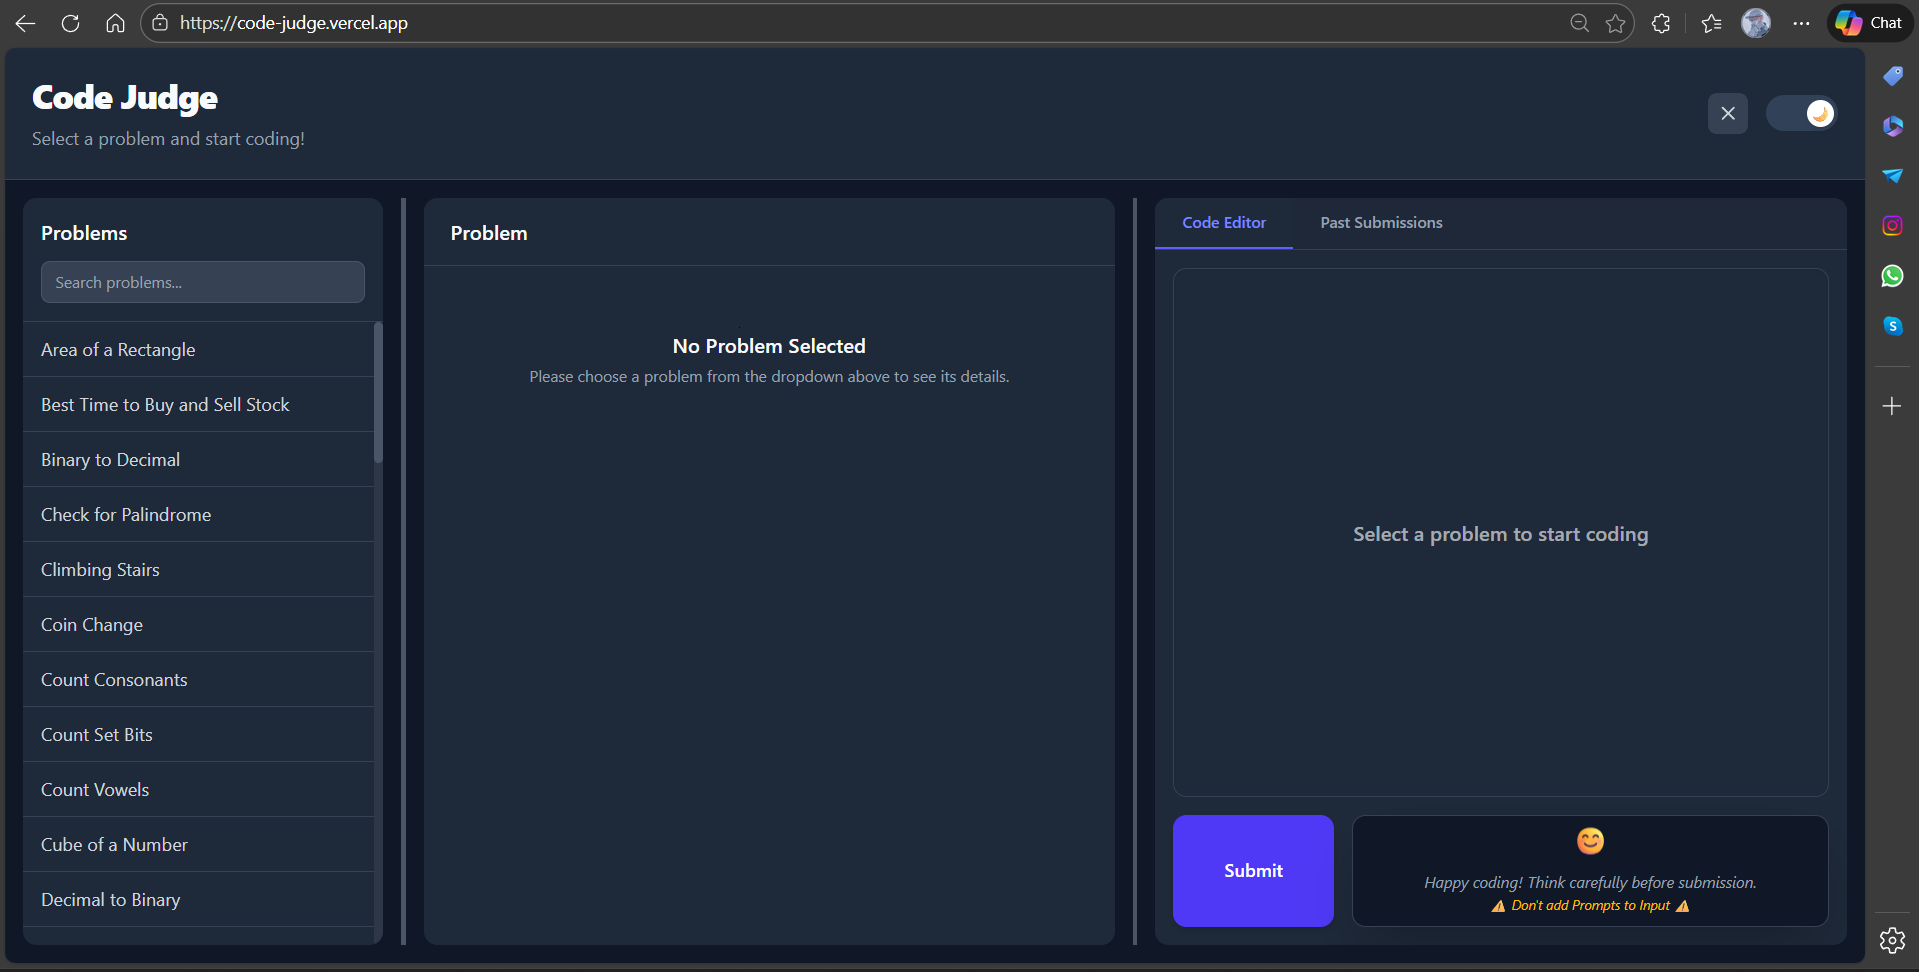
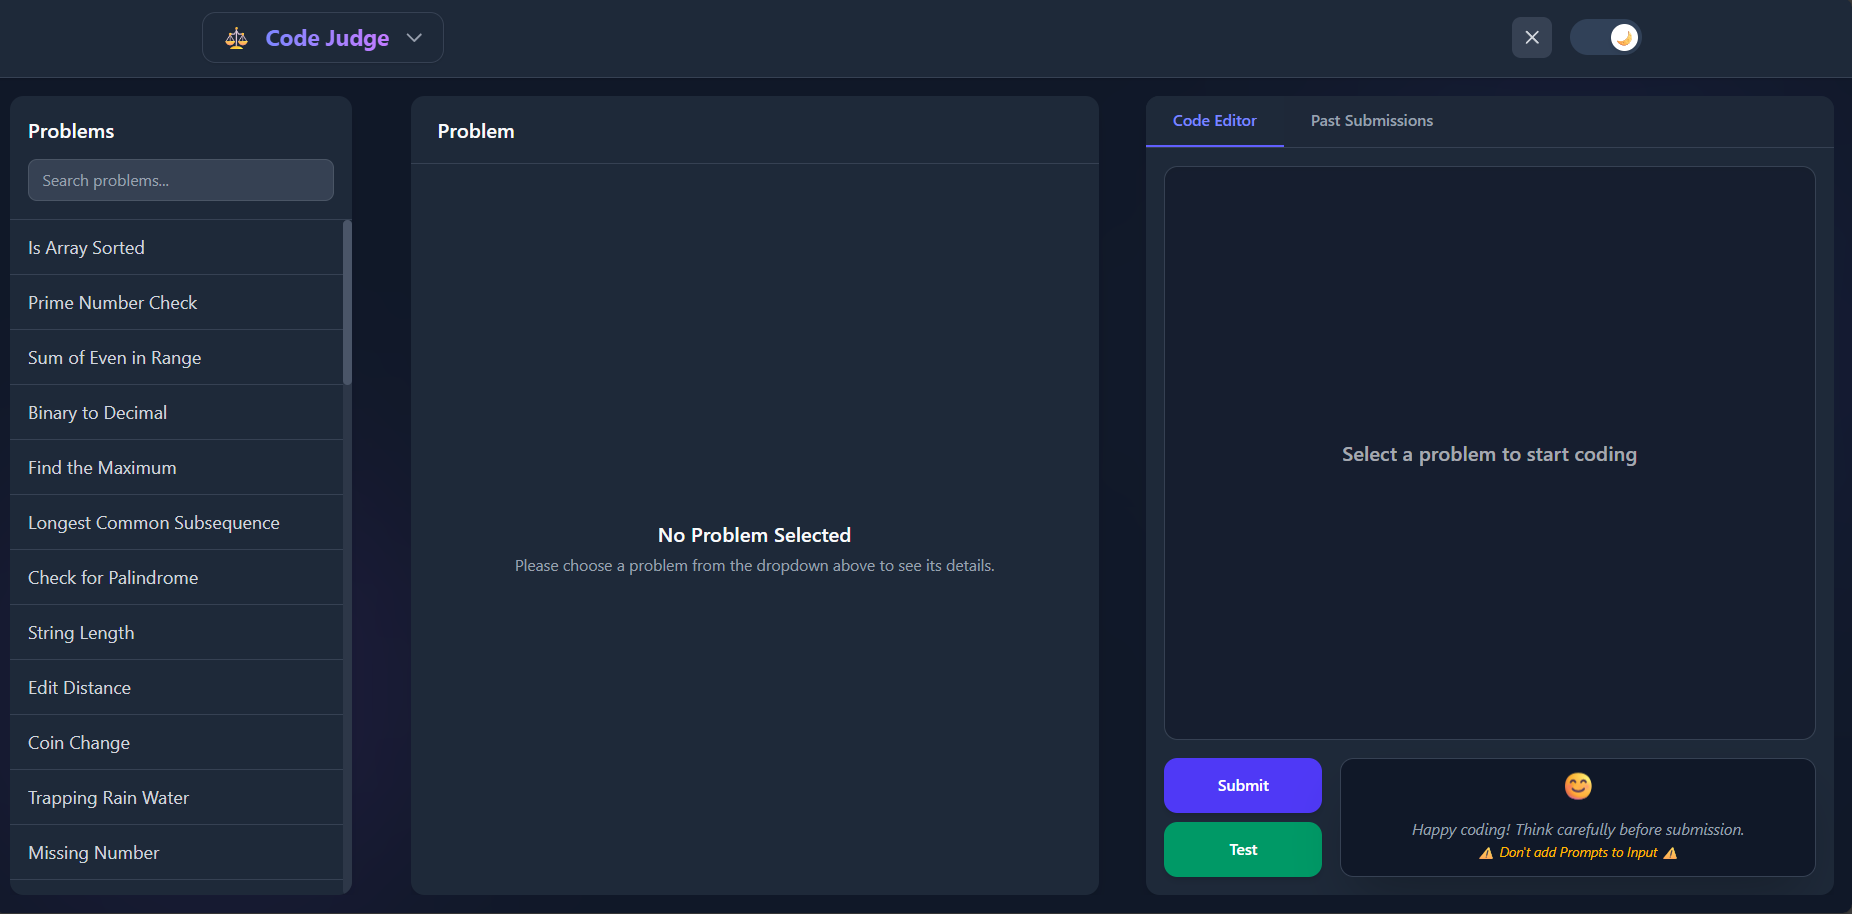
Detail changes to the portfolio

diff --git a/app/projects/code-judge/page.tsx b/app/projects/code-judge/page.tsx
@@ -10,7 +10,7 @@ export default function CodeJudgePage() {
                 <h1
                     className={`text-3xl sm:text-5xl font-extrabold ${classNames.textGlowEffect}`}
                 >
-                    Code Judge (Flask Backend)
+                    Code Judge (FastAPI Backend)
                 </h1>
                 <p className="text-lg text-gray-400 mt-4 break-all">
                     A lightweight Online Code Judge built using Flask, designed
@@ -81,7 +81,7 @@ export default function CodeJudgePage() {
                     </li>
                     <li>
                         <span className={classNames.cardparent_list_span}>
-                            ✅ Clean REST API:
+                            ✅ Clean API:
                         </span>{" "}
                         Offers a well-structured and easy-to-use API endpoint
                         for submitting code and retrieving results
@@ -186,10 +186,10 @@ export default function CodeJudgePage() {
                         </li>
                         <li>
                             <span className={classNames.cardparent_list_span}>
-                                🌶 Flask:
+                                🌶 FastAPI:
                             </span>{" "}
                             A lightweight web framework used to build the
-                            RESTful API for handling submissions.
+                            API for handling submissions.
                         </li>
                         <li>
                             <span className={classNames.cardparent_list_span}>

diff --git a/components/pagecomponent/HomeCard.tsx b/components/pagecomponent/HomeCard.tsx
@@ -43,8 +43,7 @@ export default function HomeCard() {
                                 Java:
                             </span>
                             <span className="md:w-3/4">
-                                I learnt Java programming language when I was in
-                                8th Standard
+                                Done it for consoles and DSA.
                             </span>
                         </li>
                         <li className="flex flex-col md:flex-row mb-2">
@@ -54,7 +53,7 @@ export default function HomeCard() {
                                 Python:
                             </span>
                             <span className="md:w-3/4">
-                                I learnt Python programming language afterwards.
+                                Problem Solving, and Database Tooling.
                             </span>
                         </li>
                         <li className="flex flex-col md:flex-row">
@@ -64,7 +63,7 @@ export default function HomeCard() {
                                 JavaScript:
                             </span>
                             <span className="md:w-3/4">
-                                Currently Learning
+                                Currently Learning NextJS
                             </span>
                         </li>
                     </ul>

diff --git a/app/projects/page.tsx b/app/projects/page.tsx
@@ -36,8 +36,8 @@ const projectDetails = {
 
 const ProjectDesc = [
     {
-        title: "Code Judge (In Development)",
-        desc: "A web-based code judge system built with Flask and React, designed to evaluate and score programming assignments efficiently. (IN DEVELOPMENT)",
+        title: "Code Judge",
+        desc: "A web-based code judge system built with FastAPI and NextJS, designed to evaluate and score programming assignments efficiently.",
         href: "projects/code-judge",
         img: "./projects/code_judge.png",
         key: 4,

diff --git a/components/global/Navbar.tsx b/components/global/Navbar.tsx
@@ -36,7 +36,7 @@ export default function Navbar() {
     const projectLinks = [
         {
             href: "/projects/code-judge",
-            name: "Code Judge (In Development)",
+            name: "Code Judge",
             className: "block px-4 py-2 hover:bg-purple-950 rounded-b-md",
         },
         {
